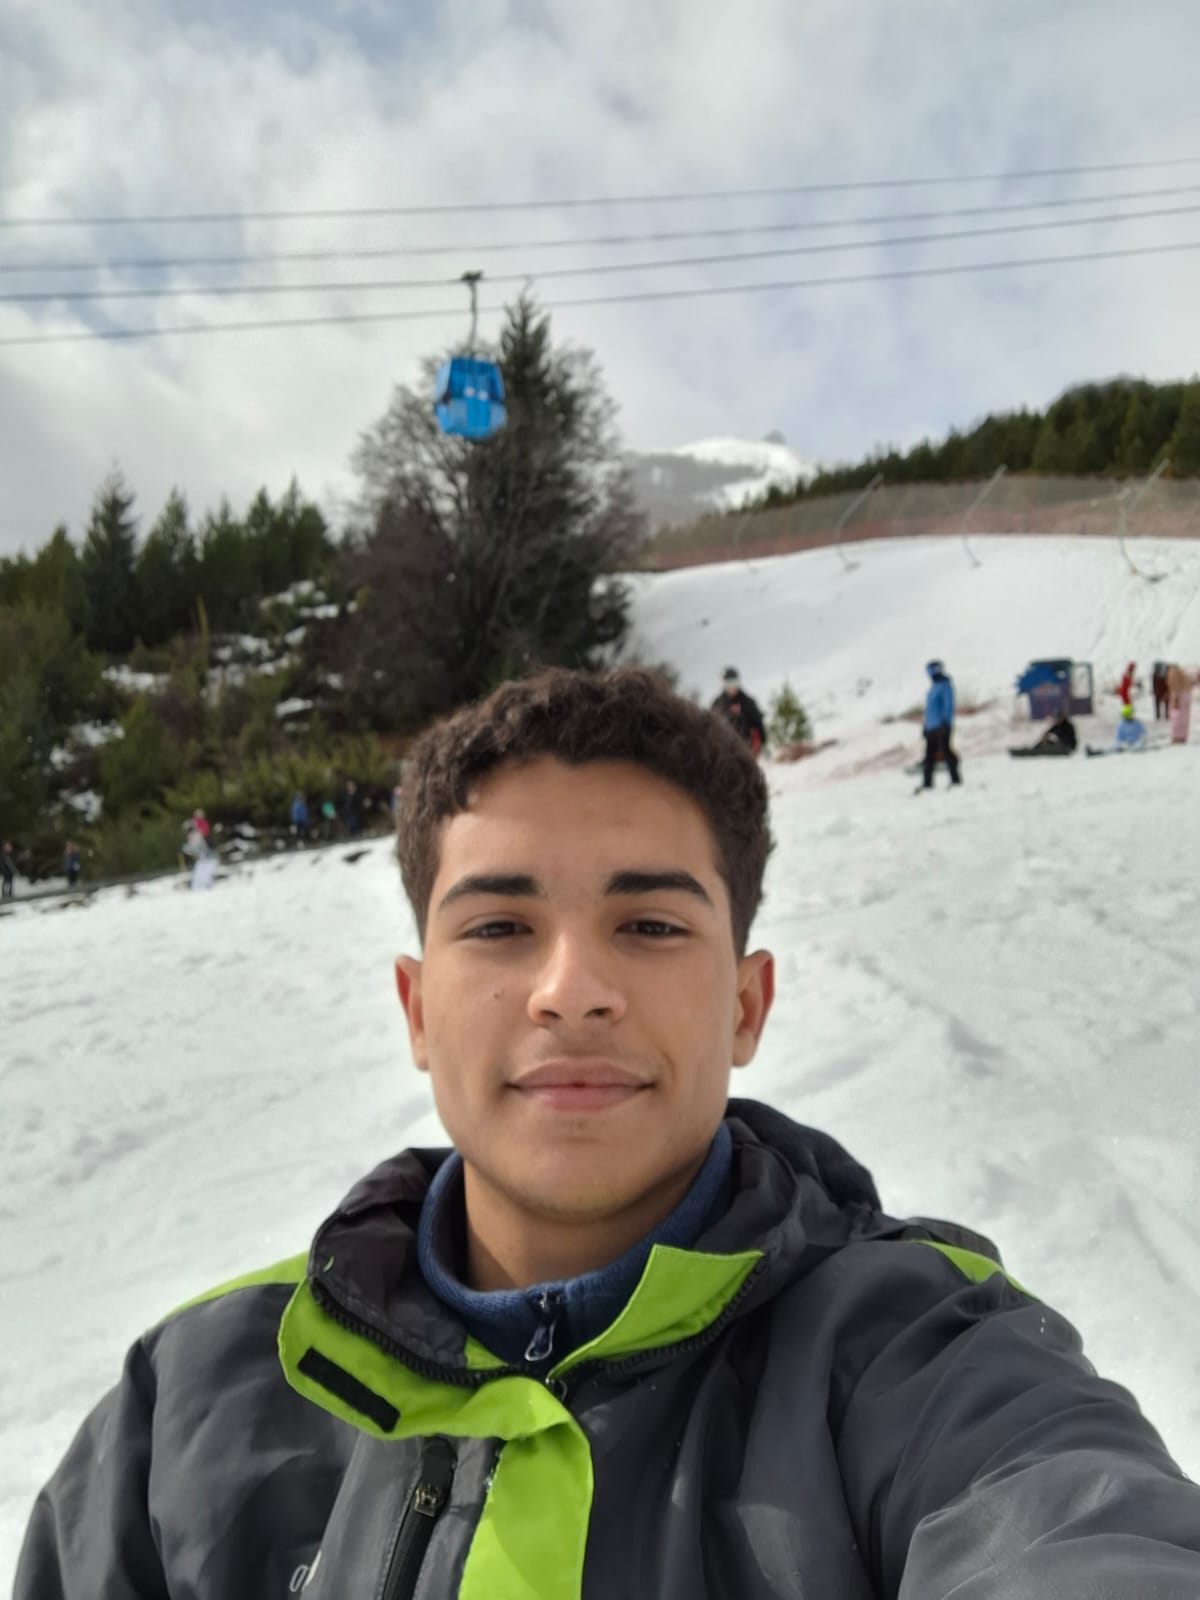
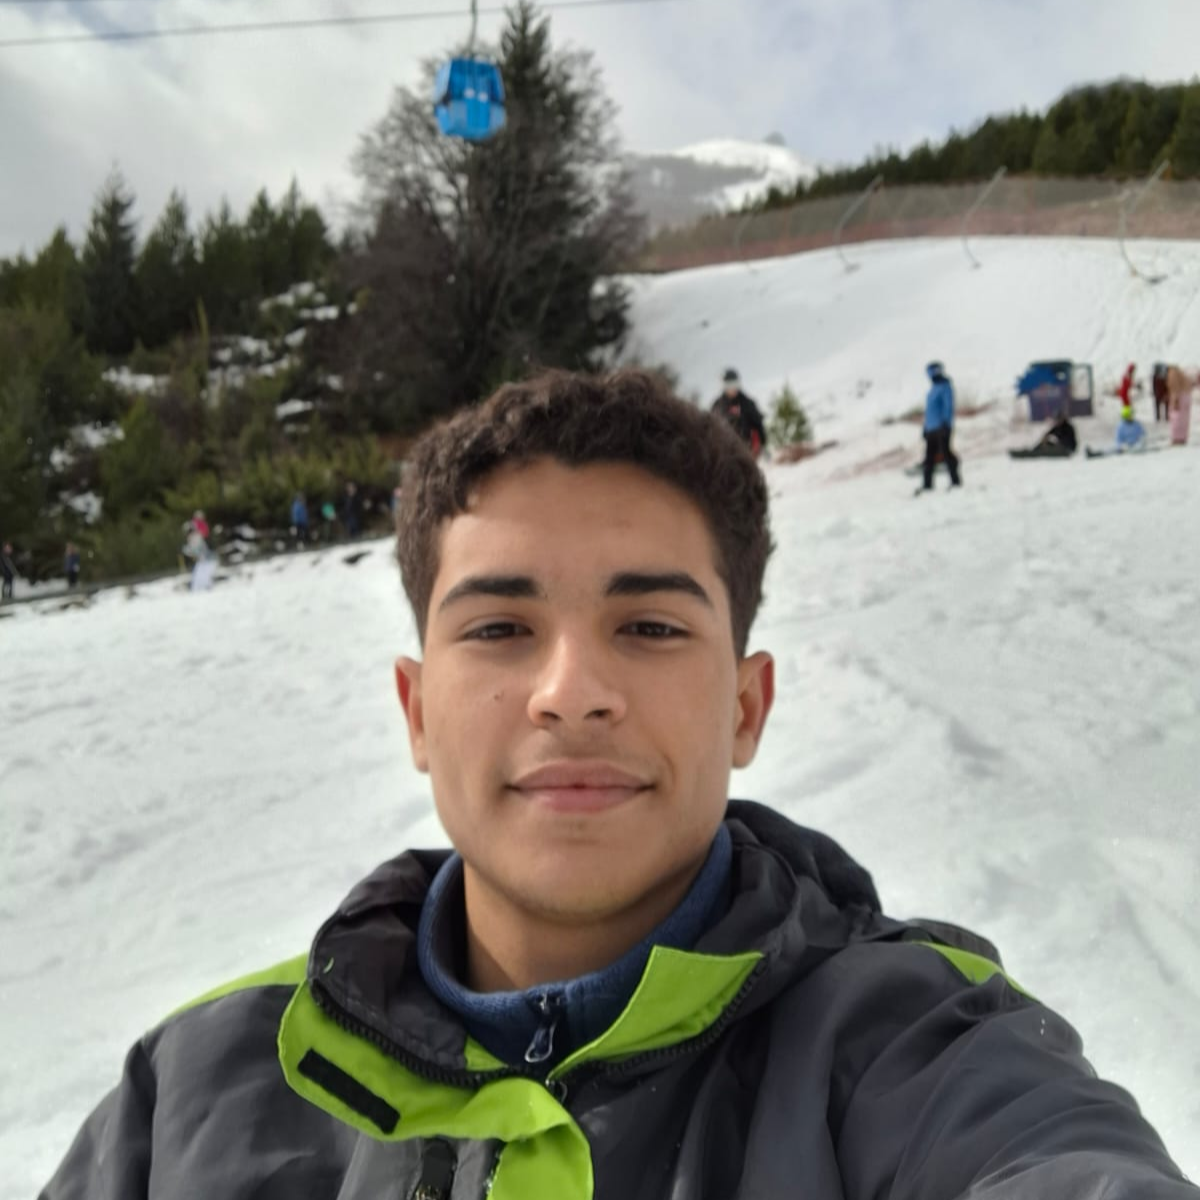
fix: conserto do bug visual da foto de perfil

diff --git a/Pagina_individual.css b/Pagina_individual.css
@@ -54,7 +54,7 @@ header nav a{
 
 .sobre_mim figure img{
   width: 247px;
-  height: 277px;
+  height: 247px;
   border-radius:50%;
   box-shadow: 0px 10px 10px 0px #00000040;
 }
